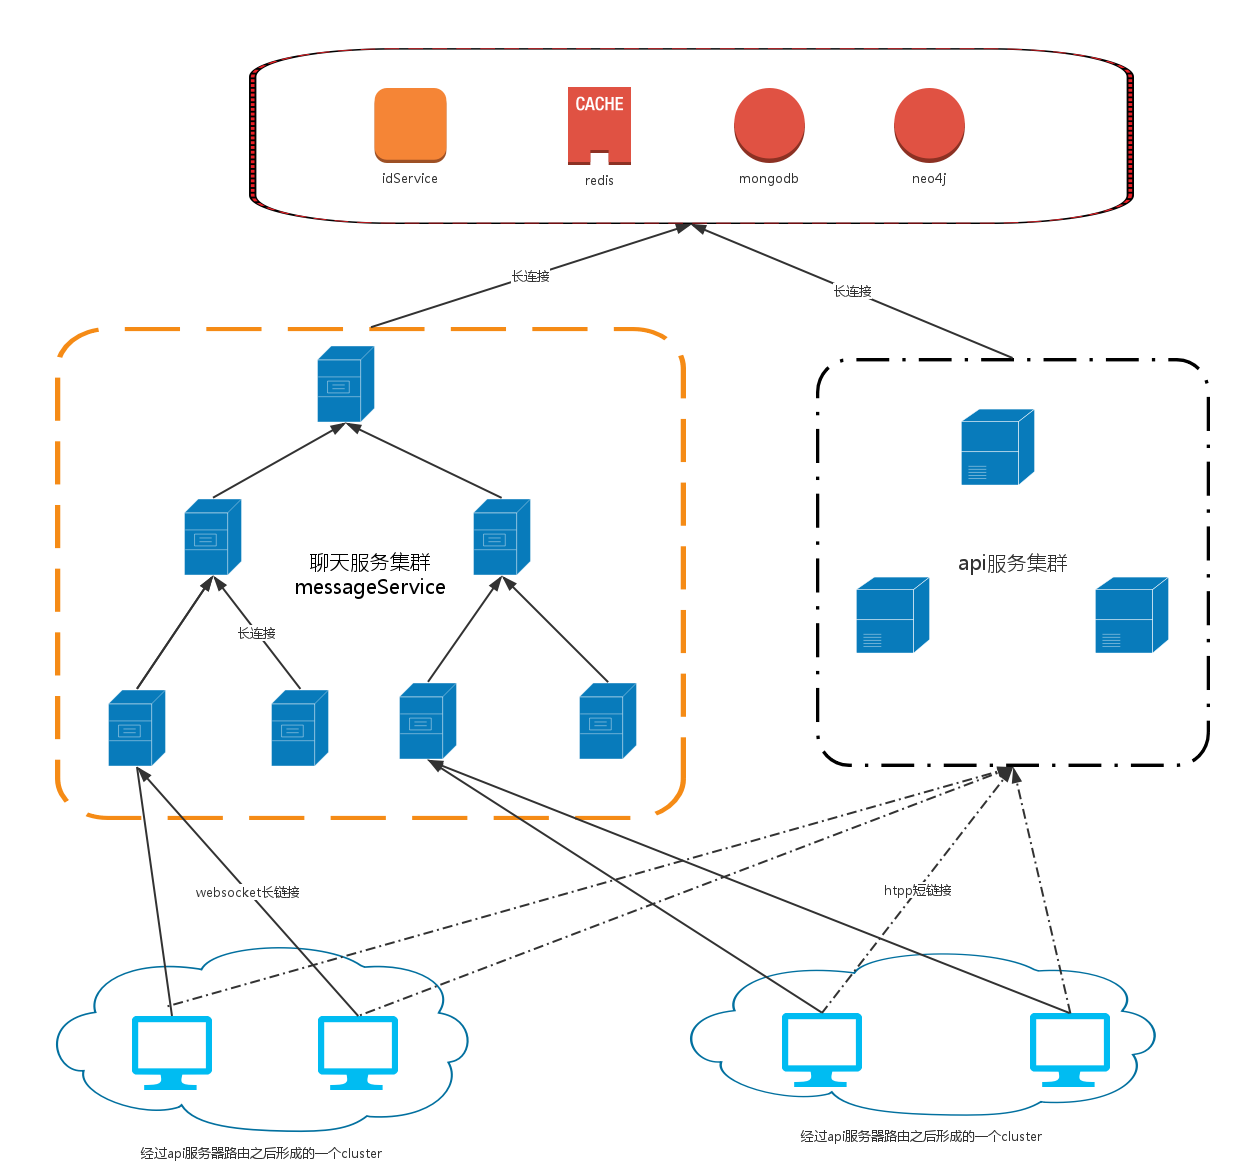
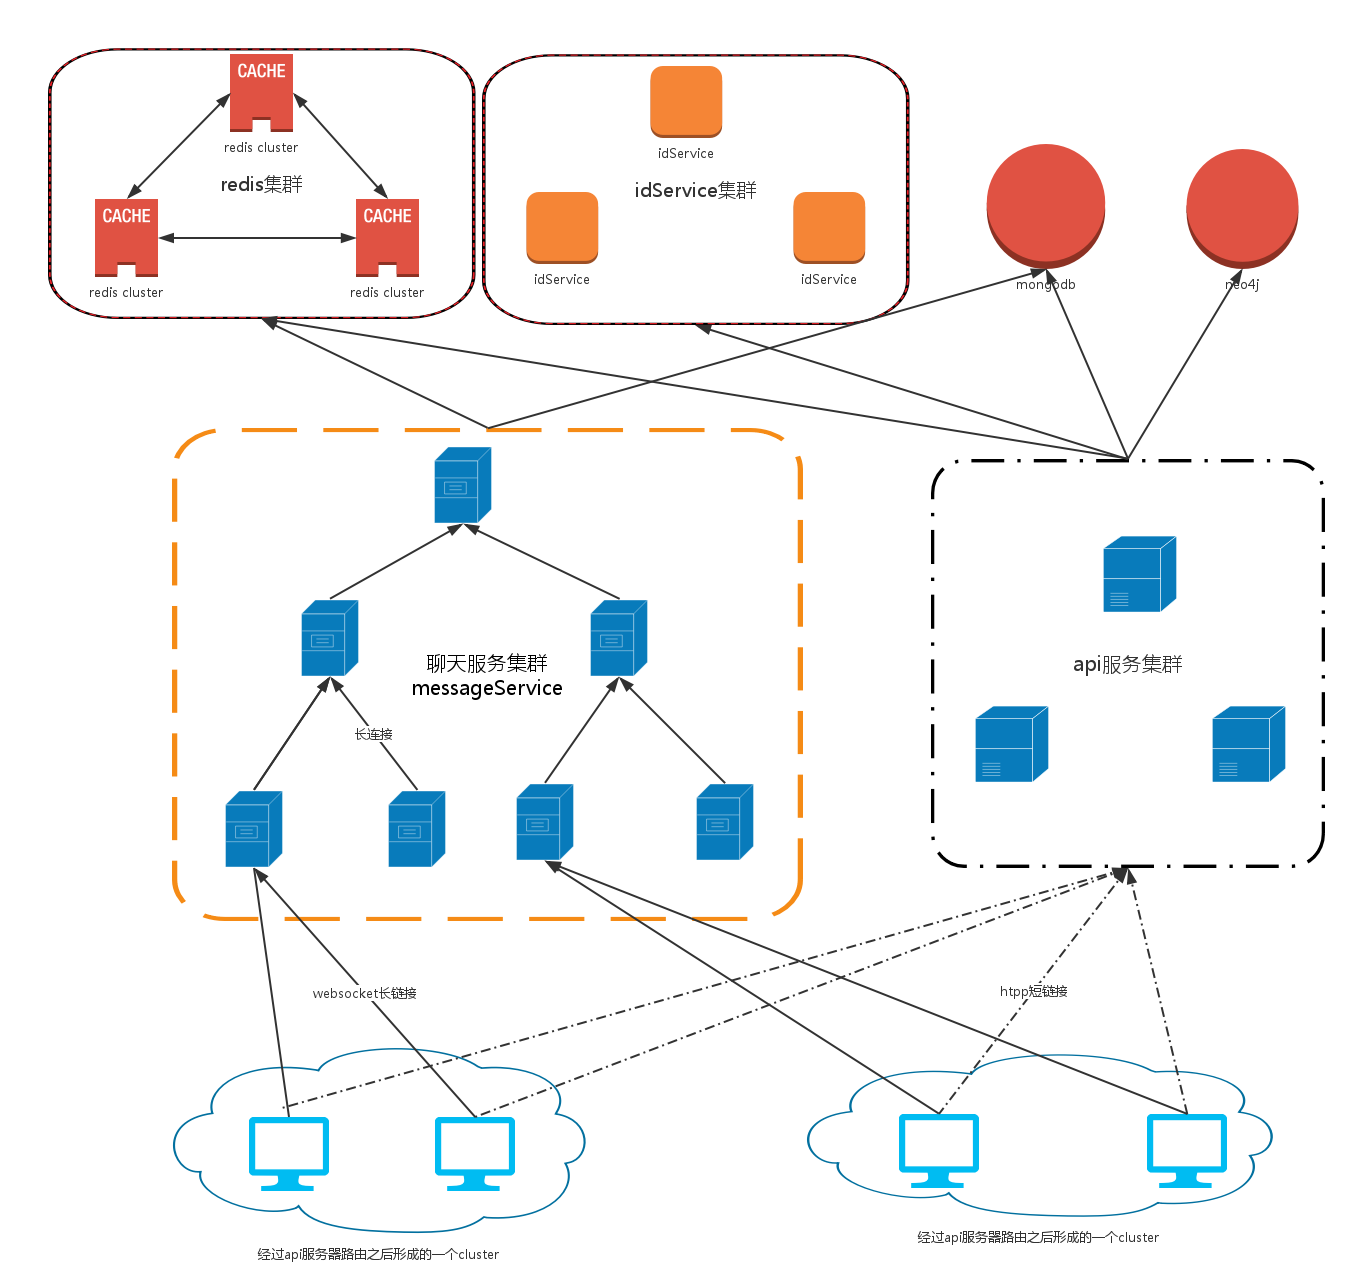
add redis cluster and fix idSer bug

diff --git a/storageService/storage/storage.go b/storageService/storage/storage.go
@@ -3,6 +3,7 @@ package storage
 import (
 	"errors"
 	"fmt"
+	"strings"
 	"time"
 
 	"github.com/longchat/longChat-Server/common/config"
@@ -14,33 +15,27 @@ import (
 
 type Storage struct {
 	db    *mgo.Database
-	redis *redis.Client
+	redis *redis.ClusterClient
 
 	sessionPrefix string
 }
 
 func (s *Storage) initRedis() error {
-	redisAddr, err := config.GetConfigString(consts.RedisAddress)
+	redisAddrs, err := config.GetConfigString(consts.RedisAddress)
 	if err != nil {
 		return errors.New(consts.ErrGetConfigFailed(consts.RedisAddress, err))
 	}
-	redisPsw, err := config.GetConfigString(consts.RedisPassword)
-	if err != nil {
-		return errors.New(consts.ErrGetConfigFailed(consts.RedisPassword, err))
-	}
-	redisDb, err := config.GetConfigInt(consts.RedisDb)
-	if err != nil {
-		return errors.New(consts.ErrGetConfigFailed(consts.RedisDb, err))
-	}
-	s.redis = redis.NewClient(&redis.Options{
-		Addr:         redisAddr,
-		Password:     redisPsw, // no password set
-		DB:           redisDb,  // use default DB
-		DialTimeout:  5 * time.Second,
-		ReadTimeout:  5 * time.Second,
-		WriteTimeout: 5 * time.Second,
-		IdleTimeout:  10 * time.Second,
-		PoolSize:     128,
+	addrslice := strings.Split(redisAddrs, ",")
+	s.redis = redis.NewClusterClient(&redis.ClusterOptions{
+		Addrs:          addrslice,
+		MaxRedirects:   8,
+		ReadOnly:       true,
+		RouteByLatency: true,
+		DialTimeout:    5 * time.Second,
+		ReadTimeout:    5 * time.Second,
+		WriteTimeout:   5 * time.Second,
+		IdleTimeout:    10 * time.Second,
+		PoolSize:       32,
 	})
 	_, err = s.redis.Ping().Result()
 	if err != nil {

diff --git a/idService/generator/generator.go b/idService/generator/generator.go
@@ -20,6 +20,7 @@ type IdGenerator struct {
 
 	counters [100]int64
 	step     int64
+	max      int64
 }
 
 func (is *IdGenerator) Init(rpcEnabled bool) error {
@@ -49,6 +50,7 @@ func (is *IdGenerator) Init(rpcEnabled bool) error {
 		return errors.New(consts.ErrGetConfigFailed(consts.IdServiceStep, err))
 	}
 	is.step = step
+	is.max = 10000 - 10000%step
 	return nil
 }
 
@@ -73,5 +75,5 @@ func (is *IdGenerator) Generate(idType GenerateReq_IdType) (int64, error) {
 
 func (is *IdGenerator) generate(idType GenerateReq_IdType, idx *int64, step int64) int64 {
 	//共19位,前13位是时间戳，中间4位是计数器，后2位是类型Id
-	return (int64(time.Now().UnixNano())/1000000)*1000000 + (atomic.AddInt64(idx, is.step)%10000)*100 + int64(idType)
+	return (int64(time.Now().UnixNano())/1000000)*1000000 + (atomic.AddInt64(idx, is.step)%is.max)*100 + int64(idType)
 }

diff --git a/storageService/storage/auth.go b/storageService/storage/auth.go
@@ -5,7 +5,7 @@ import (
 	"gopkg.in/redis.v4"
 )
 
-func getSessionValue(redisCli *redis.Client, key string) (map[string]interface{}, error) {
+func getSessionValue(redisCli *redis.ClusterClient, key string) (map[string]interface{}, error) {
 	b, err := redisCli.Get(key).Bytes()
 	if err != nil {
 		return nil, err

diff --git a/README.md b/README.md
@@ -6,7 +6,7 @@ longChat
 Features
 ======
 1.扩展伸缩方便，树型架构决定了系统是低耦合的，节点可以随意热拔插  
-2.高容错性，聊天集群上每一个节点运行的都是同一份代码、同一种数据结构，一台down了时可以使用任意一台顶替  
+2.高容错性，聊天集群上每一个节点运行的都是同一份代码、同一种数据结构，一台down了时moniter会选举出子节点顶替  
 3.基于社交网络的聚类(Clustering)，将联系频繁的用户划分到同一节点服务器，减少父节点服务器转发压力  
 
 
@@ -36,8 +36,8 @@ Architecture
 Todo
 ======
 - [ ] 聊天集群监控Moniter，单个聊天节点down掉后选举替代节点,自动负载均衡  
-- [ ] 用户的未读消息、历史消息获取  
+- [ ] 私聊转发服务器和群聊转发服务器分离，单独设立群聊转发服务器  
 
 Dependency
 ======
-longChat-Server采用了redis和MongoDB、Neo4j分别做cache和持久化存储，需要安装这三者的驱动  
+longChat-Server采用了redis(cluster)和MongoDB、Neo4j分别做cache和持久化存储，需要安装这三者的驱动  
